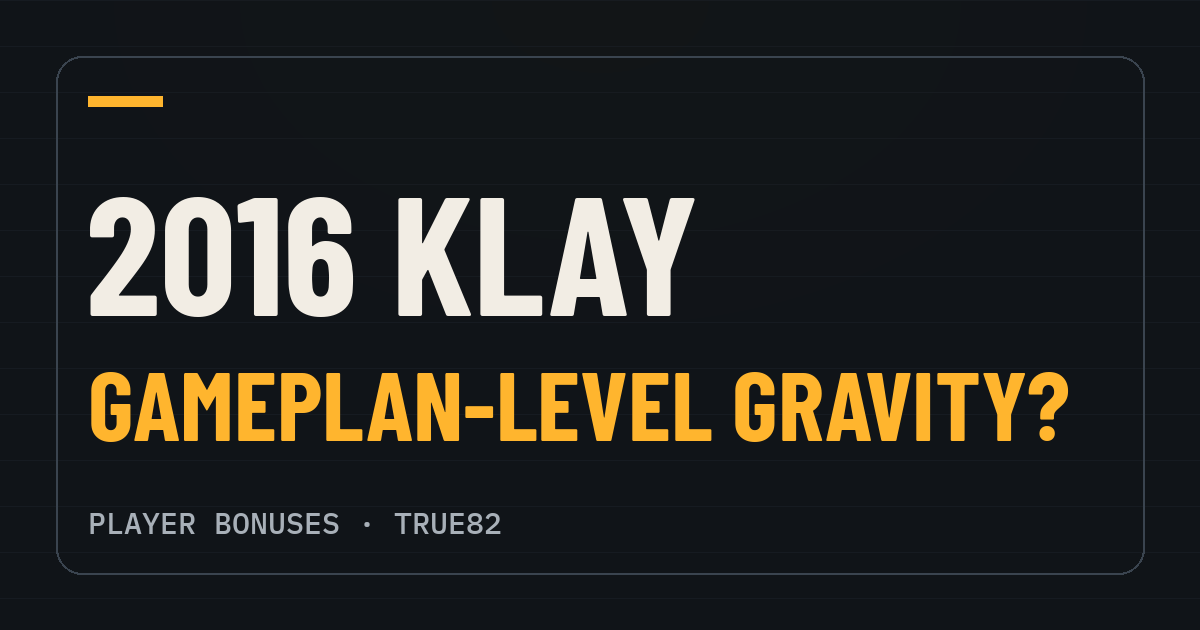
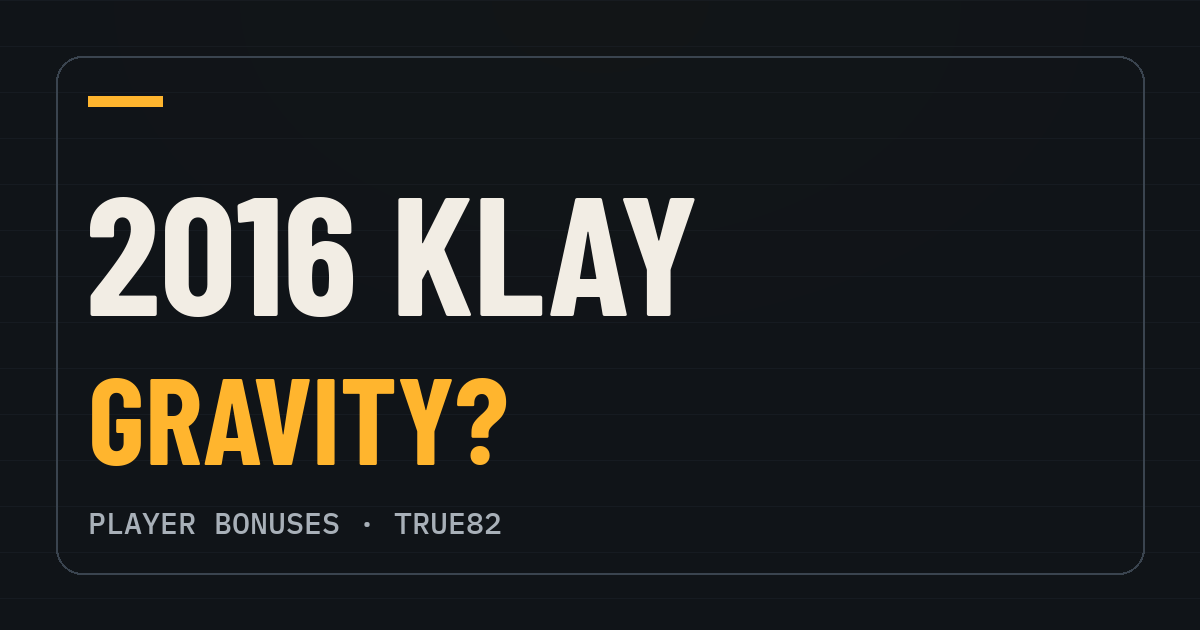
Add files via upload

Changed region(s): [[0.0617, 0.573, 0.8942, 0.754]]

diff --git a/app.js b/app.js
@@ -1786,7 +1786,13 @@ function ensureTraitsCss() {
       "box-shadow:0 0 0 1px rgba(255,181,46,.25),0 0 26px rgba(255,181,46,.16),0 14px 34px -18px rgba(0,0,0,.7)}" +
     ".traits-module .tm-top{display:flex;align-items:center;gap:9px}" +
     ".traits-module .tm-eyebrow{font-family:'IBM Plex Mono',monospace;font-size:12.5px;" +
-      "letter-spacing:.2em;color:#FFB52E}" +
+      "letter-spacing:.2em;color:#FFB52E;text-decoration:none;display:inline-block}" +
+    ".traits-module .tm-head:not([hidden]){display:block;text-align:center;font-family:'Barlow Condensed',sans-serif;" +
+      "font-weight:700;font-size:22px;letter-spacing:.08em;color:#f2ede4;margin-bottom:9px}" +
+    ".traits-module .tm-foot{justify-content:center}" +
+    ".traits-module .tm-pips{align-items:center}" +
+    ".traits-module .tm-pips span{width:10px;height:10px}" +
+    ".traits-module .tm-pips span.done{width:13px;height:13px}" +
     ".traits-module .tm-new{font-family:'IBM Plex Mono',monospace;font-size:10.5px;letter-spacing:.14em;" +
       "color:#9fe870;border:1px solid #4d7a35;border-radius:7px;padding:2px 7px}" +
     ".traits-module .tm-call{display:block;font-family:'IBM Plex Mono',monospace;font-size:10.5px;" +
@@ -1819,7 +1825,7 @@ function ensureTraitsCss() {
     ".traits-module .tm-dot{width:9px;height:9px;border-radius:50%;border:1.5px solid #4a5560;background:transparent}" +
     ".traits-module .tm-dot.on{background:#FFB52E;border-color:#FFB52E}" +
     ".traits-module .tm-count{font-family:'IBM Plex Mono',monospace;font-size:12px;letter-spacing:.1em;color:#8b98a5}" +
-    ".traits-module .tm-why{display:block;font-size:12px;color:#68737e;margin-top:8px}" +
+    ".traits-module .tm-why:not([hidden]){display:block;font-size:12px;color:#68737e;margin-top:8px}" +
     ".traits-module .tm-open{position:absolute;top:16px;right:16px;font-family:'IBM Plex Mono',monospace;" +
       "font-size:11px;letter-spacing:.12em;color:#8b98a5;text-decoration:none;padding:6px 0 6px 8px}" +
     ".traits-module .tm-done{display:none;margin-top:13px}" +
@@ -1857,11 +1863,10 @@ function traitsModuleHtml() {
   // run inline with progress dots; UNSURE and the full result hierarchy live
   // on /bonuses/, one tap away via FULL PAGE or the question itself.
   return '<section class="traits-module" id="traitsModule" hidden>' +
-    '<span class="tm-top"><span class="tm-eyebrow">PLAYER BONUSES</span>' +
-    '<span class="tm-new">NEW</span></span>' +
-    '<a class="tm-open" id="tmOpen" href="/bonuses/?src=home_module">FULL PAGE \u2192</a>' +
-    '<span class="tm-call" id="tmCall">TODAY\u2019S CALL</span>' +
-    '<a class="tm-q" id="tmQ" href="/bonuses/?src=home_module"></a>' +
+    '<span class="tm-head" id="tmHead" hidden>VOTE: DID WE GET IT WRONG?</span>' +
+    '<a class="tm-eyebrow" id="tmTitle" href="/bonuses/?src=home_module">VOTE ON PLAYER BONUSES \u00B7 HELP BALANCE THE GAME</a>' +
+    '<span class="tm-call" id="tmCall" hidden></span>' +
+    '<span class="tm-q" id="tmQ"></span>' +
     '<span class="tm-def" id="tmDef"></span>' +
     '<div class="tm-votes" id="tmVotes">' +
       '<button class="tm-vb" type="button" id="tmYes">YES</button>' +
@@ -1869,9 +1874,8 @@ function traitsModuleHtml() {
     "</div>" +
     '<div class="tm-res" id="tmRes" aria-live="polite"></div>' +
     '<div class="tm-done" id="tmDone"></div>' +
-    '<div class="tm-foot"><span class="tm-dots" id="tmDots"></span>' +
-    '<span class="tm-count" id="tmCount"></span></div>' +
-    '<span class="tm-why">Community votes set lineup-fit bonuses.</span></section>';
+    '<div class="tm-foot"><span class="round-pips tm-pips" id="tmDots" aria-hidden="true"></span></div>' +
+    '<span class="tm-why" id="tmWhy" hidden>Crowdsourcing your vote to rate player fit properly.</span></section>';
 }
 
 // The inline home session: same worker, same voter, same analytics names as
@@ -1889,20 +1893,15 @@ function tmDots() {
   var out = "";
   for (var k = 0; k < 5; k++) {
     var on = k < TM.i || (k === TM.i && TM.qs[TM.i]);
-    out += '<span class="tm-dot' + (on ? " on" : "") + '"></span>';
+    out += "<span" + (on ? ' class="done"' : "") + "></span>";
   }
   d.innerHTML = out;
-  var c = el("tmCount");
-  if (c) c.textContent = TM.i >= 5 ? "" :
-    "Vote " + (TM.i + 1) + " of 5" + (TM.i === 0 ? " \u00B7 About 20 seconds" : "");
 }
 function tmShowQuestion() {
   var q = TM.qs[TM.i];
   var mod = el("traitsModule");
   if (!q || !mod) return tmComplete();
-  el("tmCall").style.display = TM.i === 0 ? "" : "none";
   el("tmQ").textContent = (q.public_question || "").toUpperCase();
-  el("tmQ").href = tmHref(q);
   el("tmDef").textContent = q.what_counts || "";
   el("tmRes").style.display = "none";
   el("tmVotes").style.display = "";
@@ -1956,9 +1955,7 @@ function tmResult(q, resp, d) {
 function tmComplete() {
   var mod = el("traitsModule");
   if (!mod) return;
-  el("tmCall").style.display = "none";
   el("tmQ").textContent = "5 VOTES IN";
-  el("tmQ").removeAttribute("href");
   el("tmDef").textContent = "";
   el("tmVotes").style.display = "none";
   el("tmRes").style.display = "none";
@@ -2047,10 +2044,12 @@ function wireTraitsPrompt() {
       });
   };
   tmStart(false);
-  var call = el("tmCall");
-  if (call) call.textContent = "RATE YOUR FIVE";
-  var door = el("tmOpen");
-  if (door) door.href = "/bonuses/?src=results_prompt";
+  var head = el("tmHead");
+  if (head) head.hidden = false;
+  var why = el("tmWhy");
+  if (why) why.hidden = false;
+  var title = el("tmTitle");
+  if (title) title.href = "/bonuses/?src=results_prompt";
 }
 // Shadow-mode labels on the results roster: each pick card gets the community
 // tags its player-season has EARNED (gold) or been RULED OUT of (the crossed
@@ -2237,7 +2236,7 @@ function renderIntro() {
   });
   // Only the door-out elements count as a feature select now that the module
   // votes inline; YES/NO taps report through the vote vocabulary instead.
-  ["tmQ", "tmOpen"].forEach(function (id) {
+  ["tmTitle"].forEach(function (id) {
     var door = el(id);
     if (door) door.addEventListener("click", function () {
       analyticsTrack("feature_select", { surface: "home", action: "traits" });

diff --git a/functions/api/traits.js b/functions/api/traits.js
@@ -515,13 +515,13 @@ const ROSTER_WC = {
   "team-defender": "Rotations, communication, help on time. The defense works because of him.",
   "switchable-defender": "Takes the switch, guard through big, and holds up.",
   "rim-protector": "Shots die at the rim when he is standing there.",
-  "playmaker": "His touches leave the defense worse off for teammates.",
+  "playmaker": "Makes teammates way better.",
   "rim-pressurer": "Lives in the paint. Gets to the rim relentlessly.",
   "off-ball-scorer": "Dangerous without the ball: cuts, relocations, catch-and-shoot.",
   "tough-shot-maker": "Makes contested, late-clock, self-created shots at a high level.",
   "clutch": "You want the last shot in his hands. So does he.",
   "three-point-shooter": "Real three-point volume and accuracy defenses must respect.",
-  "super-three-point-shooter": "Defenses gameplan around his gravity: face-guards and changed coverages."
+  "super-three-point-shooter": "Makes defenses reorganize around stopping his shot."
 };
 function rosterQuestion(q) {
   const s = q.season, name = q.player_name;
